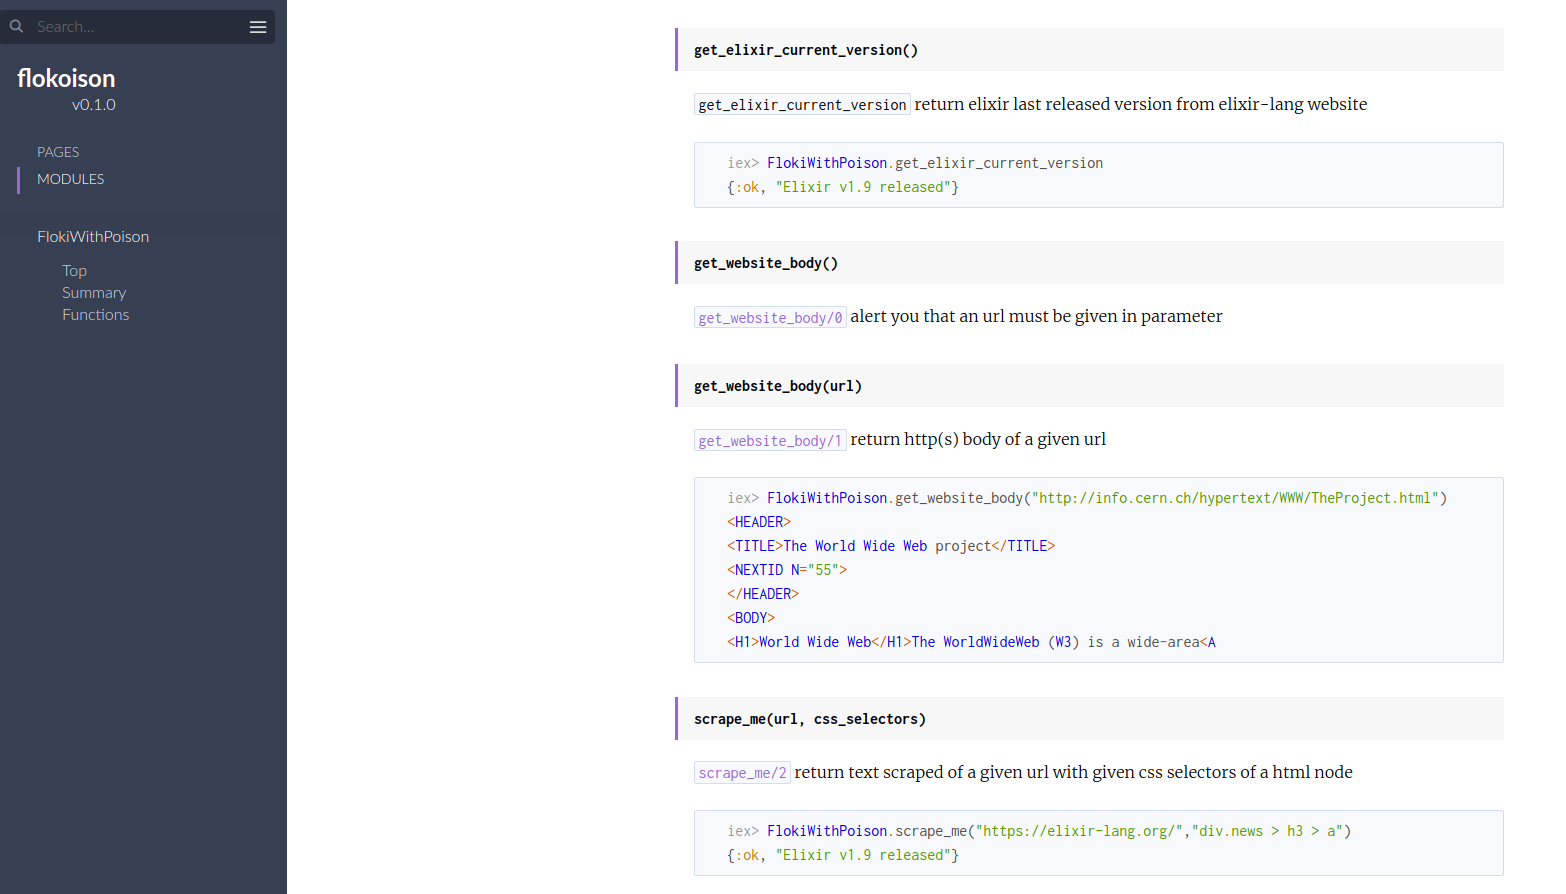
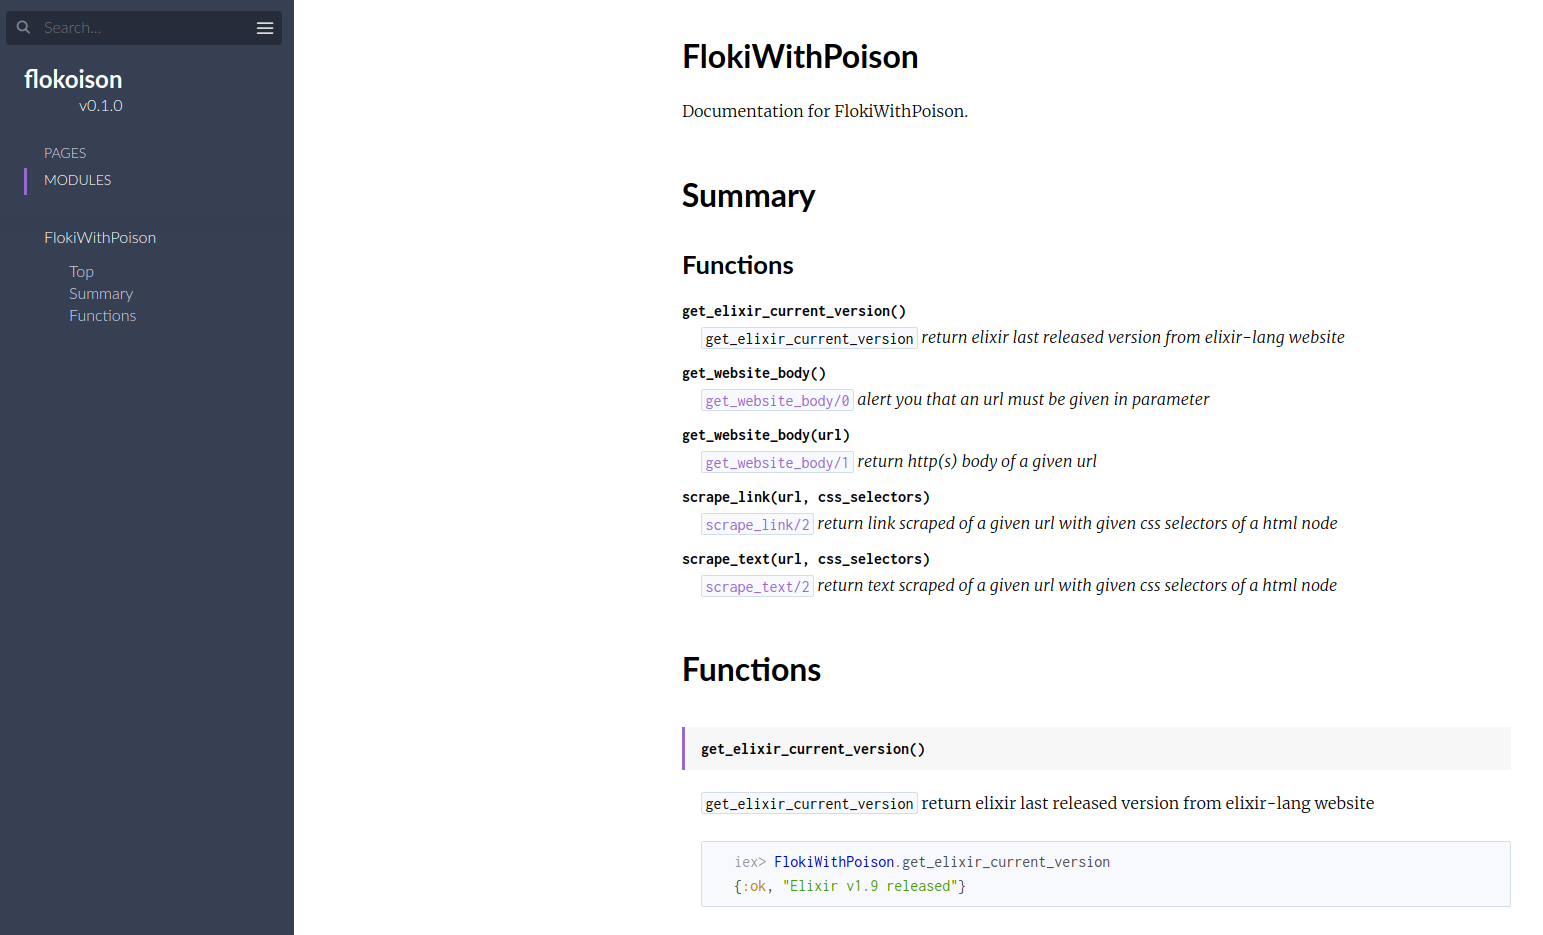
update readme

diff --git a/README.md b/README.md
@@ -4,14 +4,15 @@
 
 - Get body response of an http|https request with the given url in parameter
 - Scrap text of a given url with given css selectors of a html node
+- Scrap link of a given url with given css selectors of a html node
 
 
 ## examples with http or https
 
 ```elixir
 FlokiWithPoison.get_website_body("https://elixir-lang.org/")
-FlokiWithPoison.scrape_me("https://elixir-lang.org/","#sidebar-primary > div.widget.news > h3 > a")
-
+FlokiWithPoison.scrape_text("https://elixir-lang.org/","#sidebar-primary > div.widget.news > h3 > a")
+FlokiWithPoison.scrape_link("https://elixir-lang.org/","#sidebar-primary > div.widget.news > h3 > a")
 ```
 # generated doc
 
